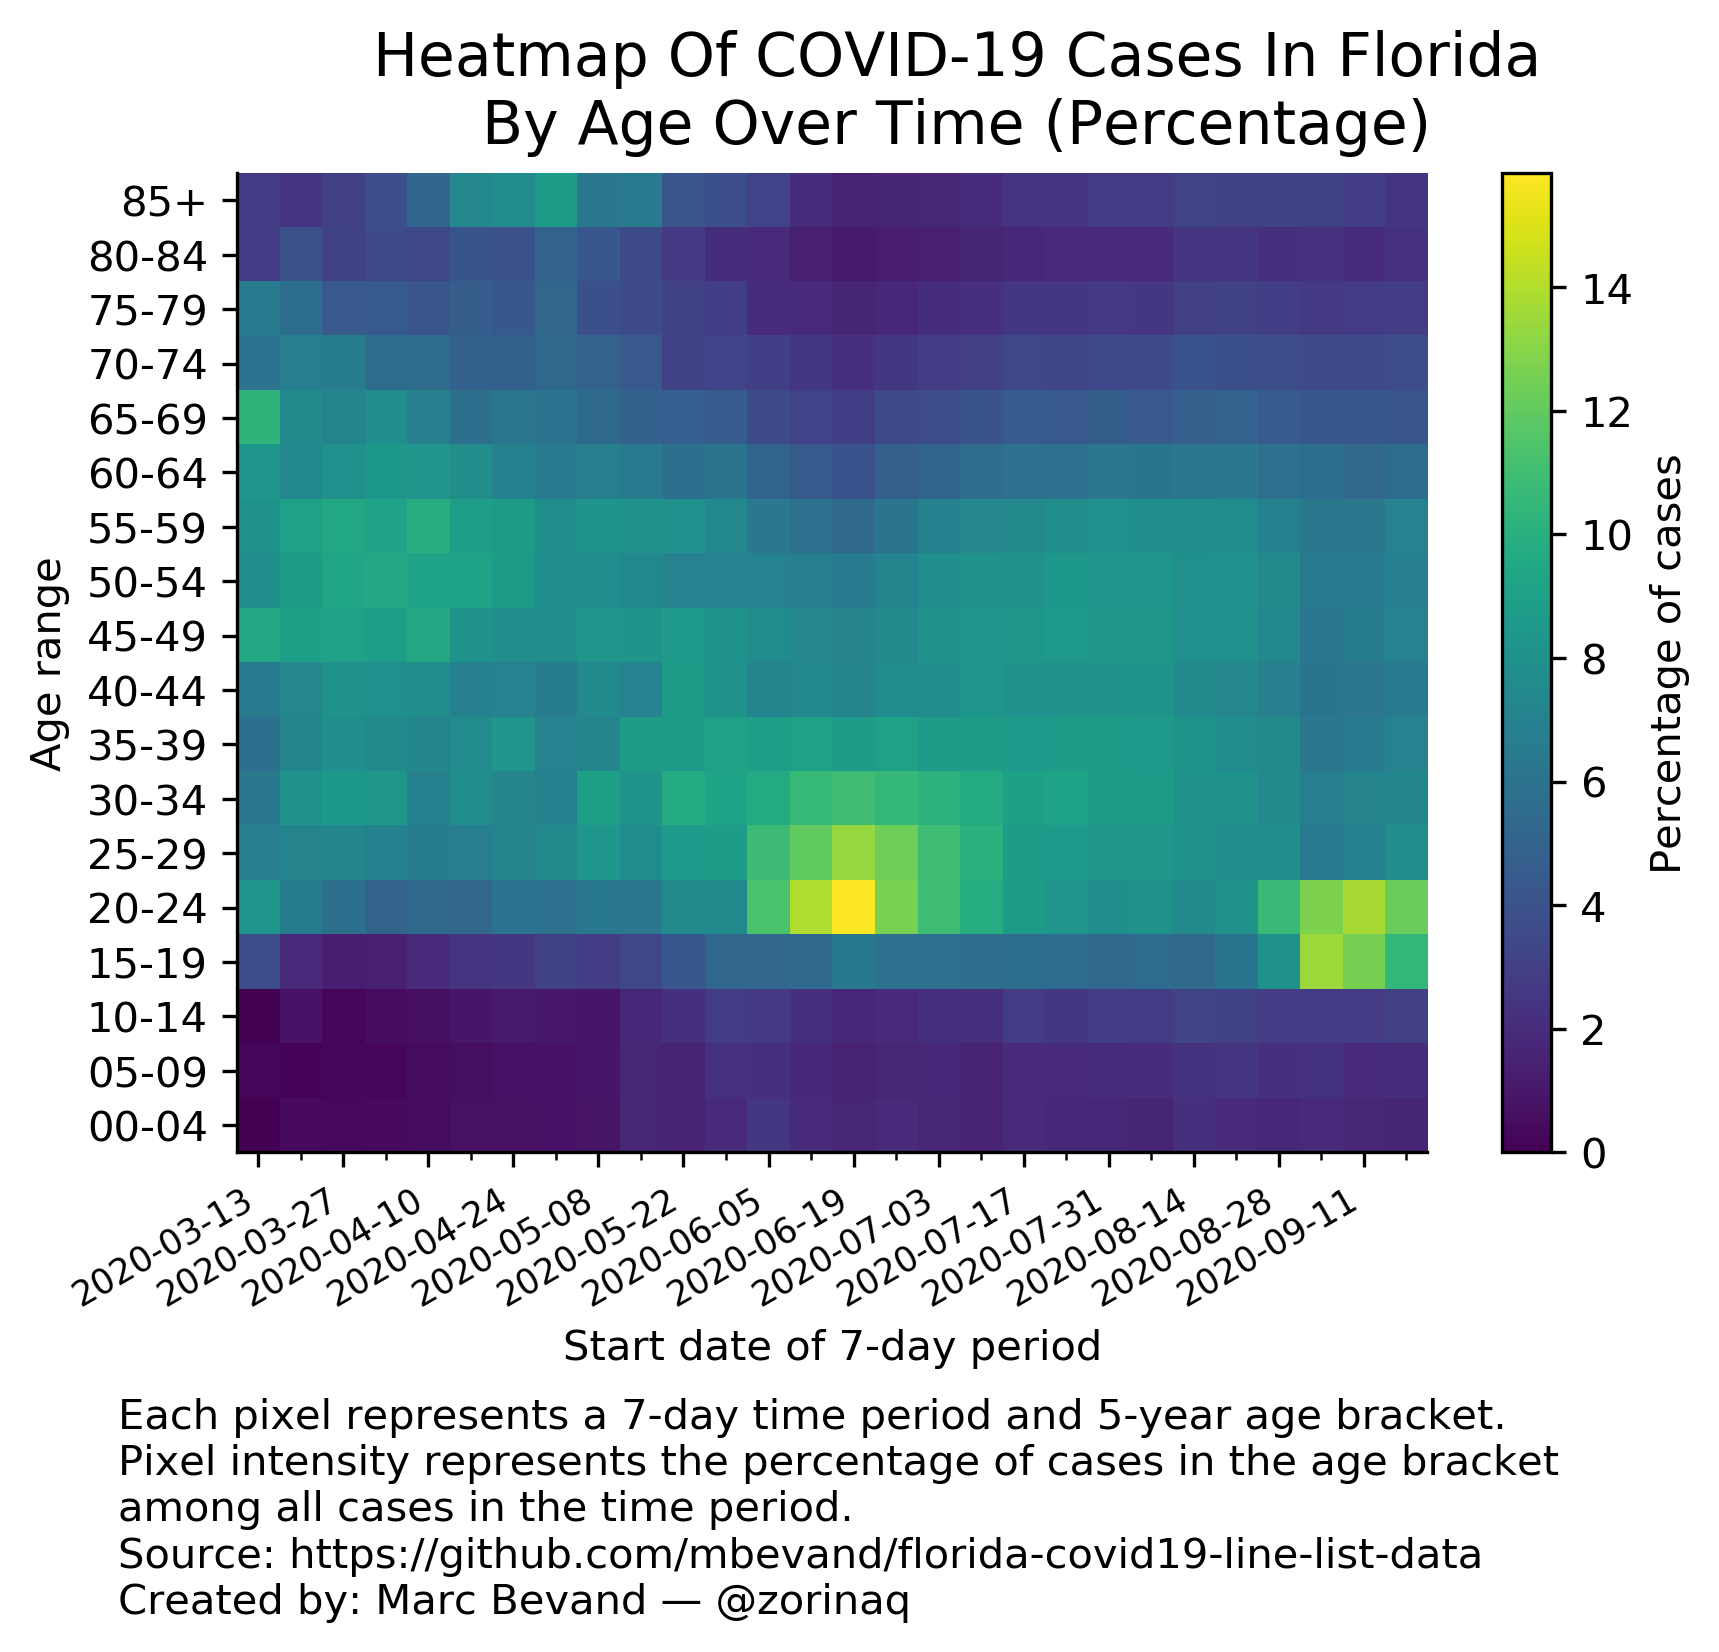
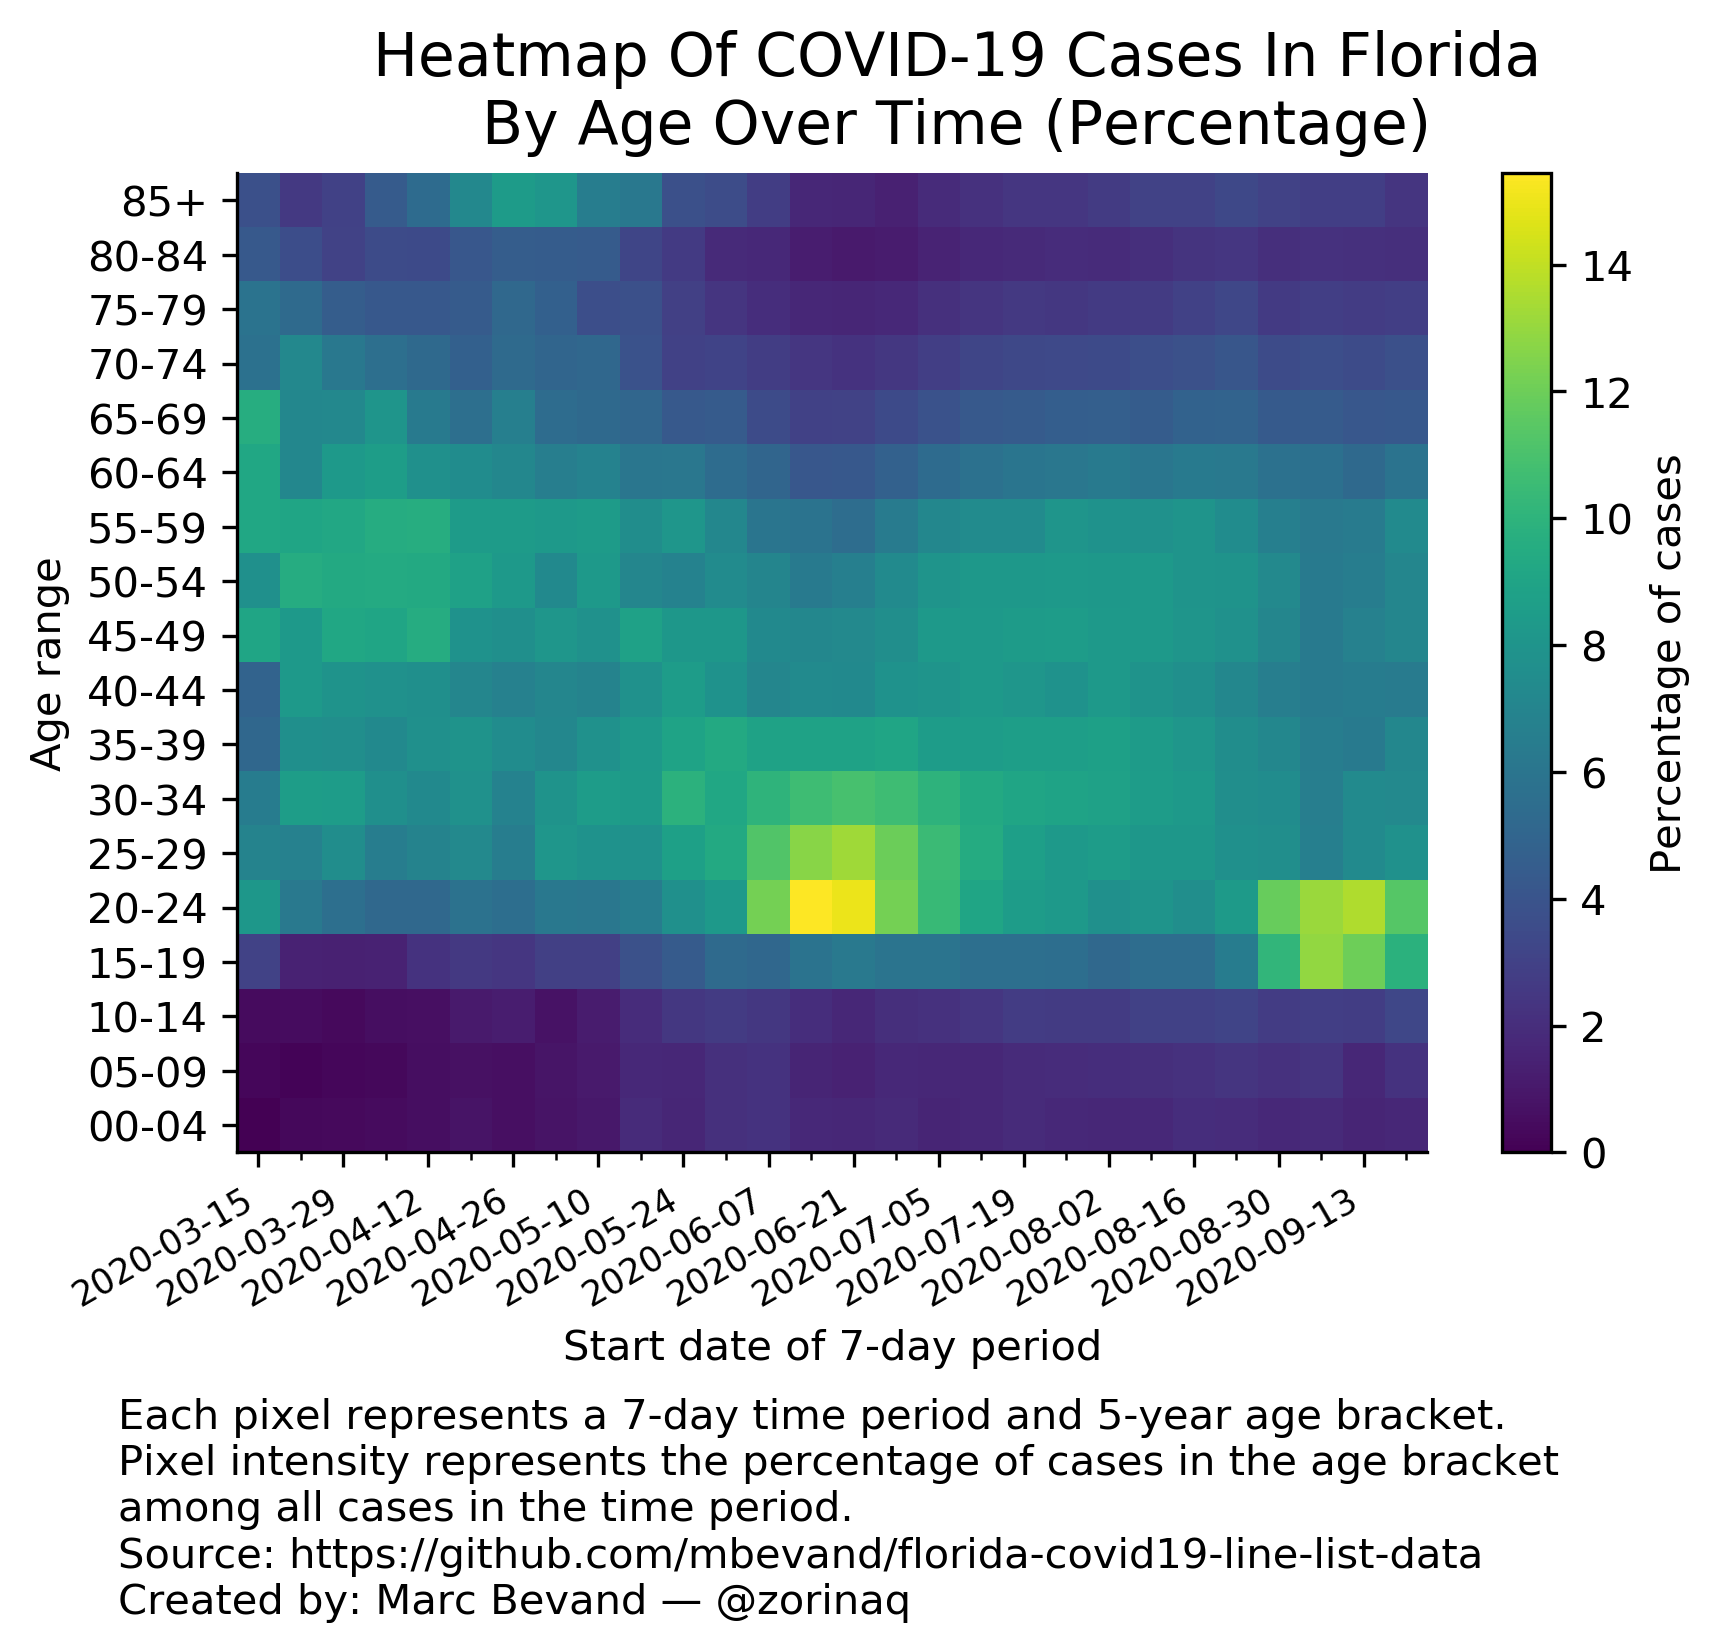
update heatmaps

diff --git a/README.md b/README.md
@@ -1,6 +1,6 @@
 # Forecasting deaths and analyzing age trends of COVID-19 cases in Florida
 
-*Updated: 25 September 2020*
+*Updated: 27 Sep 2020*
 
 Author: Marc Bevand
 
@@ -387,40 +387,40 @@ It creates various heatmaps of cases by age over time:
 
 ```
 $ ./heatmap.py
-Opening data_fdoh/2020-09-25-07-58-17.csv
+Opening data_fdoh/2020-09-27-08-09-26.csv
 Number of COVID-19 cases per 7-day time period in Florida by age bracket over time:
 period_start, 00-04, 05-09, 10-14, 15-19, 20-24, 25-29, 30-34, 35-39, 40-44, 45-49, 50-54, 55-59, 60-64, 65-69, 70-74, 75-79, 80-84, 85+, median_age
-  2020-02-28,     0,     0,     0,     0,     1,     1,     0,     0,     0,     0,     1,     1,     2,     1,     2,     0,     0,     0,  63.0
-  2020-03-06,     0,     0,     0,     0,     0,     0,     0,     0,     0,     1,     1,     3,     5,    10,     2,     3,     1,     0,  66.5
-  2020-03-13,     0,     1,     0,    15,    33,    27,    25,    23,    26,    38,    31,    32,    33,    41,    24,    26,    11,    11,  51.0
-  2020-03-20,     9,     4,    17,    42,   149,   159,   181,   161,   165,   200,   193,   203,   166,   169,   152,   129,    88,    55,  50.0
-  2020-03-27,    24,    18,    18,    87,   382,   475,   550,   515,   528,   590,   614,   621,   519,   467,   434,   287,   202,   196,  50.0
-  2020-04-03,    32,    22,    41,   108,   388,   533,   646,   578,   610,   680,   736,   700,   648,   605,   430,   345,   279,   294,  51.0
-  2020-04-10,    37,    34,    44,   132,   365,   451,   468,   489,   525,   644,   618,   663,   558,   464,   379,   280,   230,   346,  51.0
-  2020-04-17,    45,    35,    59,   148,   321,   417,   483,   471,   426,   498,   566,   547,   483,   359,   301,   287,   252,   450,  51.0
-  2020-04-24,    35,    36,    55,   119,   285,   337,   342,   389,   331,   371,   409,   407,   328,   294,   231,   207,   186,   362,  50.0
-  2020-05-01,    33,    34,    44,   135,   257,   328,   303,   306,   288,   343,   334,   341,   285,   261,   231,   228,   219,   374,  51.0
-  2020-05-08,    42,    47,    46,   142,   318,   414,   447,   357,   374,   410,   383,   406,   337,   270,   246,   191,   212,   314,  48.0
-  2020-05-15,    93,    90,    95,   182,   339,   414,   442,   471,   379,   439,   399,   436,   350,   260,   239,   198,   192,   354,  47.0
-  2020-05-22,    80,    79,   111,   222,   391,   439,   501,   449,   445,   442,   362,   412,   300,   244,   158,   158,   139,   219,  43.0
-  2020-05-29,   121,   147,   183,   339,   488,   566,   598,   591,   528,   531,   458,   481,   398,   300,   208,   191,   137,   246,  42.0
-  2020-06-05,   235,   202,   248,   493,  1076,  1027,   916,   842,   676,   721,   663,   597,   485,   338,   281,   188,   177,   300,  38.0
-  2020-06-12,   337,   313,   377,   956,  2471,  2126,  1881,  1603,  1311,  1295,  1198,  1062,   804,   566,   458,   343,   250,   361,  36.0
-  2020-06-19,   598,   530,   641,  2225,  5504,  4638,  3808,  2997,  2510,  2465,  2245,  1905,  1389,  1012,   763,   564,   393,   549,  34.0
-  2020-06-26,  1028,   928,  1033,  3296,  6961,  6773,  5791,  4993,  4252,  4096,  3944,  3357,  2635,  1926,  1406,   967,   683,   907,  36.0
-  2020-07-03,  1110,  1172,  1451,  3836,  7115,  7108,  6656,  5667,  5119,  5320,  5065,  4556,  3348,  2441,  1810,  1367,   908,  1123,  38.0
-  2020-07-10,  1289,  1318,  1821,  4669,  8063,  8320,  7988,  7156,  6862,  6823,  6720,  6041,  4674,  3324,  2479,  1811,  1366,  1634,  40.0
-  2020-07-17,  1432,  1394,  2081,  4294,  6471,  6518,  6755,  6361,  6108,  6285,  6075,  5564,  4453,  3430,  2523,  1925,  1375,  1797,  41.0
-  2020-07-24,  1217,  1336,  1720,  3729,  5582,  5816,  6228,  5944,  5448,  5794,  5700,  5361,  4018,  3013,  2228,  1680,  1276,  1602,  42.0
-  2020-07-31,   826,   964,  1360,  2523,  3759,  3985,  4152,  4105,  3842,  3986,  3940,  3805,  2995,  2223,  1663,  1242,   937,  1306,  42.0
-  2020-08-07,   748,   898,  1241,  2500,  3654,  3776,  3933,  3873,  3684,  3788,  3757,  3558,  2785,  1992,  1593,  1143,   869,  1259,  42.0
-  2020-08-14,   642,   705,   982,  1648,  2242,  2436,  2422,  2464,  2267,  2388,  2391,  2349,  1893,  1450,  1197,   908,   719,   972,  43.0
-  2020-08-21,   432,   543,   700,  1376,  1832,  1739,  1826,  1716,  1647,  1790,  1797,  1725,  1409,  1114,   866,   702,   530,   699,  43.0
-  2020-08-28,   436,   545,   704,  1978,  2619,  1930,  1833,  1851,  1697,  1804,  1851,  1705,  1453,  1134,   915,   715,   539,   772,  40.0
-  2020-09-04,   349,   431,   512,  2517,  2371,  1231,  1265,  1164,  1145,  1162,  1209,  1179,  1067,   800,   686,   505,   424,   583,  37.0
-  2020-09-11,   336,   374,   543,  2460,  2687,  1364,  1377,  1276,  1227,  1310,  1270,  1227,  1047,   836,   680,   537,   398,   560,  37.0
-  2020-09-18,   303,   378,   553,  1945,  2259,  1456,  1340,  1294,  1212,  1294,  1269,  1298,  1032,   780,   690,   538,   413,   446,  38.0
-(Last period's data may be incomplete. Age unknown for 1854 out of 695887 cases.)
+  2020-03-01,     0,     0,     0,     0,     1,     1,     0,     0,     0,     0,     1,     1,     2,     2,     2,     3,     0,     0,  65.0
+  2020-03-08,     0,     0,     0,     4,     7,     3,     2,     5,     6,     8,     4,     8,     9,    17,    10,     4,     3,     1,  59.0
+  2020-03-15,     0,     2,     3,    21,    57,    48,    45,    36,    34,    63,    54,    64,    64,    67,    40,    41,    30,    26,  53.0
+  2020-03-22,    10,     5,    17,    49,   205,   223,   282,   254,   272,   273,   315,   298,   235,   235,   237,   176,   121,    84,  50.0
+  2020-03-29,    32,    21,    28,   109,   428,   577,   652,   583,   604,   701,   716,   704,   631,   550,   470,   345,   234,   228,  50.0
+  2020-04-05,    34,    25,    42,   108,   383,   481,   569,   541,   577,   669,   699,   706,   636,   593,   418,   313,   262,   326,  51.0
+  2020-04-12,    37,    35,    41,   142,   330,   437,   465,   494,   490,   608,   595,   613,   493,   405,   335,   270,   220,   344,  50.0
+  2020-04-19,    49,    39,    67,   149,   341,   427,   459,   466,   416,   462,   518,   498,   441,   332,   279,   259,   246,   424,  50.0
+  2020-04-26,    29,    29,    55,   111,   251,   296,   308,   339,   305,   348,   375,   382,   323,   301,   240,   235,   205,   382,  52.0
+  2020-05-03,    37,    38,    35,   132,   276,   364,   355,   321,   319,   364,   328,   373,   297,   245,   225,   212,   202,   363,  50.0
+  2020-05-10,    51,    58,    60,   151,   313,   401,   435,   399,   354,   399,   424,   432,   351,   270,   262,   191,   225,   334,  49.0
+  2020-05-17,    94,    88,    98,   193,   329,   392,   423,   417,   392,   443,   357,   379,   306,   257,   197,   188,   161,   312,  46.0
+  2020-05-24,    91,    94,   136,   242,   425,   481,   544,   491,   468,   447,   375,   444,   336,   237,   165,   159,   144,   207,  42.0
+  2020-05-31,   162,   161,   201,   400,   624,   707,   693,   706,   594,   617,   560,   540,   413,   333,   232,   181,   138,   270,  40.0
+  2020-06-07,   258,   256,   290,   592,  1399,  1287,  1151,  1019,   813,   840,   806,   688,   575,   403,   320,   235,   205,   324,  37.0
+  2020-06-14,   392,   342,   436,  1272,  3356,  2757,  2317,  1940,  1606,  1554,  1364,  1277,   915,   650,   529,   378,   271,   379,  34.0
+  2020-06-21,   765,   643,   762,  2757,  6592,  5829,  4807,  3907,  3229,  3193,  2943,  2437,  1868,  1349,   990,   718,   496,   722,  34.0
+  2020-06-28,  1069,  1047,  1203,  3467,  7124,  6986,  6220,  5293,  4588,  4442,  4302,  3740,  2815,  2031,  1458,  1054,   678,   827,  36.0
+  2020-07-05,  1109,  1189,  1523,  4112,  7213,  7311,  6944,  5950,  5556,  5756,  5536,  4986,  3753,  2698,  1995,  1488,  1060,  1303,  39.0
+  2020-07-12,  1369,  1380,  1926,  4465,  7200,  7551,  7433,  6799,  6615,  6596,  6532,  5917,  4582,  3431,  2575,  1906,  1426,  1741,  41.0
+  2020-07-19,  1407,  1408,  2016,  4131,  6280,  6396,  6676,  6346,  5967,  6246,  6031,  5492,  4407,  3265,  2444,  1874,  1360,  1775,  41.0
+  2020-07-26,  1120,  1247,  1695,  3521,  5206,  5246,  5633,  5433,  4955,  5366,  5257,  5084,  3840,  2893,  2136,  1561,  1238,  1557,  42.0
+  2020-08-02,   768,   928,  1229,  2371,  3531,  3884,  4003,  3992,  3791,  3759,  3740,  3578,  2880,  2126,  1586,  1181,   861,  1232,  42.0
+  2020-08-09,   715,   857,  1222,  2252,  3250,  3331,  3464,  3448,  3229,  3368,  3381,  3171,  2459,  1823,  1499,  1103,   844,  1243,  42.0
+  2020-08-16,   551,   595,   811,  1509,  2083,  2234,  2267,  2224,  2103,  2203,  2191,  2178,  1729,  1334,  1049,   814,   639,   826,  43.0
+  2020-08-23,   414,   493,   656,  1355,  1756,  1615,  1590,  1575,  1487,  1623,  1657,  1560,  1303,  1024,   857,   689,   504,   700,  43.0
+  2020-08-30,   438,   547,   676,  2535,  2952,  1897,  1867,  1775,  1640,  1772,  1811,  1660,  1435,  1082,   879,   650,   525,   765,  39.0
+  2020-09-06,   334,   431,   513,  2320,  2356,  1199,  1188,  1176,  1130,  1145,  1145,  1123,  1021,   798,   664,   514,   396,   516,  37.0
+  2020-09-13,   323,   348,   562,  2421,  2733,  1482,  1481,  1280,  1299,  1363,  1317,  1291,  1056,   838,   714,   553,   434,   575,  37.0
+  2020-09-20,   291,   389,   558,  1676,  1932,  1334,  1241,  1219,  1092,  1210,  1210,  1258,  1003,   727,   646,   491,   357,   401,  39.0
+(Last period's data may be incomplete. Age unknown for 1840 out of 700564 cases.)
 ```
 
 By default the size of each pixel, or *bucket*, is 5-year age brackets and 7-day
